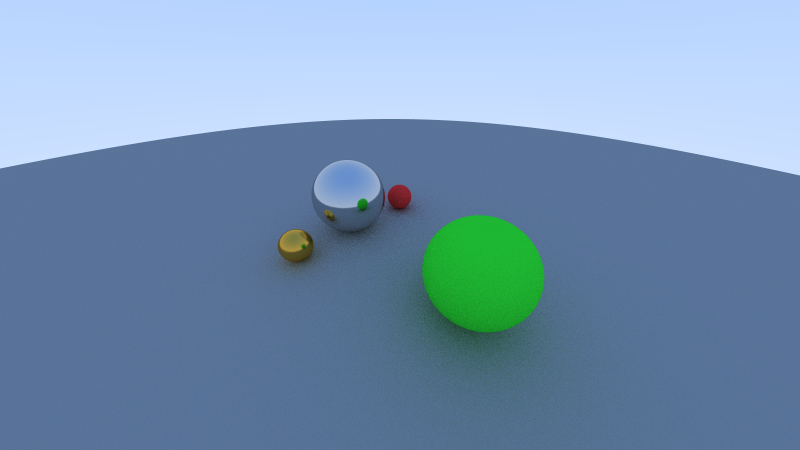
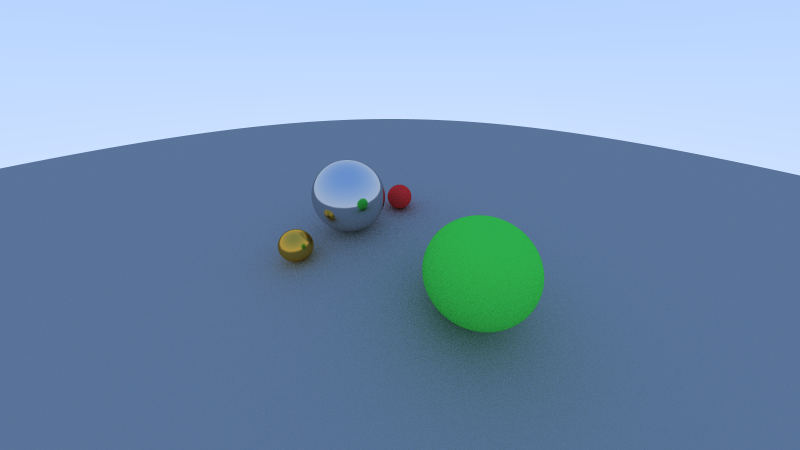
material: add dialectric core: enforce unit vectors

Changed region(s): [[0.5312, 0.4667, 0.6875, 0.7156]]

diff --git a/src/scene/examples/mod.rs b/src/scene/examples/mod.rs
@@ -1,17 +1,19 @@
 use crate::{
-    material::{Diffuse, DiffuseMethod, Metal},
+    material::{Dialectric, Diffuse, DiffuseMethod, Metal},
     object::Sphere,
     vec3::{Coord, RelColor},
 };
 
 use super::{camera::Camera, world::World, Scene};
 
+#[allow(unused_variables)]
 pub fn simple_scene() -> Scene {
     let diffuse = Diffuse::new(RelColor::new(0.6, 0.6, 0.6), DiffuseMethod::Lambertian);
-    let diffuse_green = Diffuse::new(RelColor::new(0.2, 0.95, 0.2), DiffuseMethod::Lambertian);
+    let diffuse_green = Diffuse::new(RelColor::new(0.3, 0.9, 0.3), DiffuseMethod::Lambertian);
     let diffuse_red = Diffuse::new(RelColor::new(0.95, 0.2, 0.2), DiffuseMethod::Lambertian);
     let metal = Metal::new(RelColor::new(0.8, 0.8, 0.8), 0.05);
     let metal_gold = Metal::new(RelColor::new(0.93, 0.68, 0.25), 0.2);
+    let glass = Dialectric::new(1.5);
 
     let sphere = Sphere::new(Coord::new(0., 0., -1.), 0.5, metal.clone());
     let back_sphere = Sphere::new(Coord::new(0., 0., 1.), 0.5, diffuse_green.clone());

diff --git a/src/material/metal.rs b/src/material/metal.rs
@@ -4,13 +4,8 @@ use crate::{
     vec3::{Coord, RelColor},
 };
 
-use super::{coord_ext, Material};
-use coord_ext::CoordRandomExt;
-
-fn reflect(v: Coord, n: Coord) -> Coord {
-    let b = n * n.dot(v) / n.squared_length(); // n.unit() * (n.dot(v) / n.length());
-    v - b * 2.
-}
+use super::{coord_utils, Material};
+use coord_utils::CoordRandomExt;
 
 #[derive(Clone)]
 pub struct Metal {
@@ -26,13 +21,13 @@ impl Metal {
 
 impl Material for Metal {
     fn scatter(&self, ray: &Ray, hit: &HitRecord) -> Option<ScatterRecord> {
-        let reflected_dir = reflect(ray.dir, hit.normal);
+        let reflected_dir = coord_utils::reflect(ray.dir, hit.normal);
 
         if reflected_dir.dot(hit.normal) > 0. {
             // TODO: why?
             let scattered_ray = Ray::new(
                 hit.point,
-                reflected_dir + Coord::random_in_unit_sphere() * self.fuzz,
+                (reflected_dir + Coord::random_in_unit_sphere() * self.fuzz).unit(),
             );
 
             Some(ScatterRecord {

diff --git a/src/material/dialectric.rs b/src/material/dialectric.rs
@@ -1,0 +1,36 @@
+use crate::{
+    hit_scatter::{HitRecord, ScatterRecord},
+    ray::Ray,
+    vec3::RelColor,
+};
+
+use super::{coord_utils, Material};
+
+#[derive(Clone)]
+pub struct Dialectric {
+    refract_idx: f64,
+}
+
+impl Dialectric {
+    pub fn new(refract_idx: f64) -> Self {
+        Self { refract_idx }
+    }
+}
+
+impl Material for Dialectric {
+    fn scatter(&self, ray: &Ray, hit: &HitRecord) -> Option<ScatterRecord> {
+        let etai_over_etat = if hit.front {
+            1. / self.refract_idx
+        } else {
+            self.refract_idx
+        };
+        let scattered_dir =
+            coord_utils::refract_or_reflect(ray.dir, hit.normal, etai_over_etat).unit();
+        let scattered_ray = Ray::new(hit.point, scattered_dir);
+
+        Some(ScatterRecord {
+            scattered_ray,
+            attenuation: RelColor::ones(),
+        })
+    }
+}

diff --git a/src/material/coord_utils.rs b/src/material/coord_utils.rs
@@ -26,3 +26,23 @@ impl CoordRandomExt for Coord {
         Self::new(r * a.cos(), r * a.sin(), z)
     }
 }
+
+pub fn reflect(v: Coord, n: Coord) -> Coord {
+    let b = n * n.dot(v); // n.unit() * (n.dot(v) / n.length()), both united here
+    v - b * 2.
+}
+
+pub fn refract_or_reflect(uv: Coord, n: Coord, etai_over_etat: f64) -> Coord {
+    let cos = (-uv).dot(n);
+    let sin = (1. - cos * cos).sqrt();
+
+    if etai_over_etat * sin > 1. {
+        // reflect
+        reflect(uv, n)
+    } else {
+        // refract
+        let out_parallel = (uv + n * cos) * etai_over_etat;
+        let out_perpendicular = -n * (1. - out_parallel.squared_length()).sqrt();
+        out_parallel + out_perpendicular
+    }
+}

diff --git a/src/material/diffuse.rs b/src/material/diffuse.rs
@@ -4,8 +4,8 @@ use crate::{
     vec3::{Coord, RelColor},
 };
 
-use super::{coord_ext, Material};
-use coord_ext::CoordRandomExt;
+use super::{coord_utils, Material};
+use coord_utils::CoordRandomExt;
 
 #[derive(Clone)]
 pub enum DiffuseMethod {
@@ -30,7 +30,8 @@ impl Material for Diffuse {
         let scattered_dir = match self.method {
             DiffuseMethod::Basic => hit.normal + Coord::random_in_unit_sphere(),
             DiffuseMethod::Lambertian => hit.normal + Coord::random_unit_vector(),
-        };
+        }
+        .unit();
         let scattered_ray = Ray::new(hit.point, scattered_dir);
 
         Some(ScatterRecord {

diff --git a/src/hit_scatter.rs b/src/hit_scatter.rs
@@ -12,6 +12,25 @@ pub struct HitRecord<'a> {
     pub material: &'a dyn Material,
 }
 
+impl<'a> HitRecord<'a> {
+    pub fn new(
+        point: Coord,
+        normal: Coord,
+        t: f64,
+        front: bool,
+        material: &'a dyn Material,
+    ) -> Self {
+        debug_assert!((normal.length() - 1.).abs() < 1e-6);
+        Self {
+            point,
+            normal,
+            t,
+            front,
+            material,
+        }
+    }
+}
+
 pub struct ScatterRecord {
     pub scattered_ray: Ray,
     pub attenuation: RelColor,

diff --git a/src/object/sphere.rs b/src/object/sphere.rs
@@ -49,13 +49,8 @@ impl<M: Material> Object for Sphere<M> {
                 } else {
                     -outward_normal
                 };
-                Some(HitRecord {
-                    point,
-                    normal,
-                    t,
-                    front,
-                    material: &self.material,
-                })
+
+                Some(HitRecord::new(point, normal, t, front, &self.material))
             } else {
                 None
             }

diff --git a/src/scene/world.rs b/src/scene/world.rs
@@ -37,8 +37,7 @@ impl World {
                 }
             }
             None => {
-                let unit_dir = ray.dir.unit();
-                let t = 0.5 * (unit_dir.y + 1.);
+                let t = 0.5 * (ray.dir.y + 1.);
                 let bg_color =
                     RelColor::new(1., 1., 1.) * (1. - t) + RelColor::new(0.5, 0.7, 1.) * t;
                 bg_color

diff --git a/src/render.rs b/src/render.rs
@@ -7,7 +7,7 @@ use crate::{output::output_png, scene, vec3::RelColor};
 const MAX_DEPTH: usize = 50;
 const WIDTH: u32 = 800;
 // antialiasing
-const SAMPLES_PER_AXIS: u32 = 10;
+const SAMPLES_PER_AXIS: u32 = if cfg!(debug_assertions) { 2 } else { 10 };
 const SAMPLES_PER_PIXEL: u32 = SAMPLES_PER_AXIS * SAMPLES_PER_AXIS;
 const SAMPLE_STEP: f64 = 1f64 / SAMPLES_PER_AXIS as f64;
 

diff --git a/src/scene/camera.rs b/src/scene/camera.rs
@@ -49,7 +49,8 @@ impl Camera {
     }
 
     pub fn ray(&self, u: f64, v: f64) -> Ray {
-        let dir: Coord = self.corner + self.horizontal * u + self.vertical * v - self.origin;
+        let dir: Coord =
+            (self.corner + self.horizontal * u + self.vertical * v - self.origin).unit();
         Ray::new(self.origin, dir)
     }
 }

diff --git a/src/material/mod.rs b/src/material/mod.rs
@@ -3,12 +3,14 @@ use crate::{
     ray::Ray,
 };
 
+mod coord_utils;
+mod dialectric;
 mod diffuse;
 mod metal;
-mod coord_ext;
 
 pub use diffuse::*;
 pub use metal::*;
+pub use dialectric::*;
 
 pub trait Material: Send + Sync {
     fn scatter(&self, ray: &Ray, hit: &HitRecord) -> Option<ScatterRecord>;

diff --git a/src/ray.rs b/src/ray.rs
@@ -7,6 +7,7 @@ pub struct Ray {
 
 impl Ray {
     pub fn new(origin: Coord, dir: Coord) -> Self {
+        debug_assert!((dir.length() - 1.).abs() < 1e-6);
         Self { origin, dir }
     }
 
